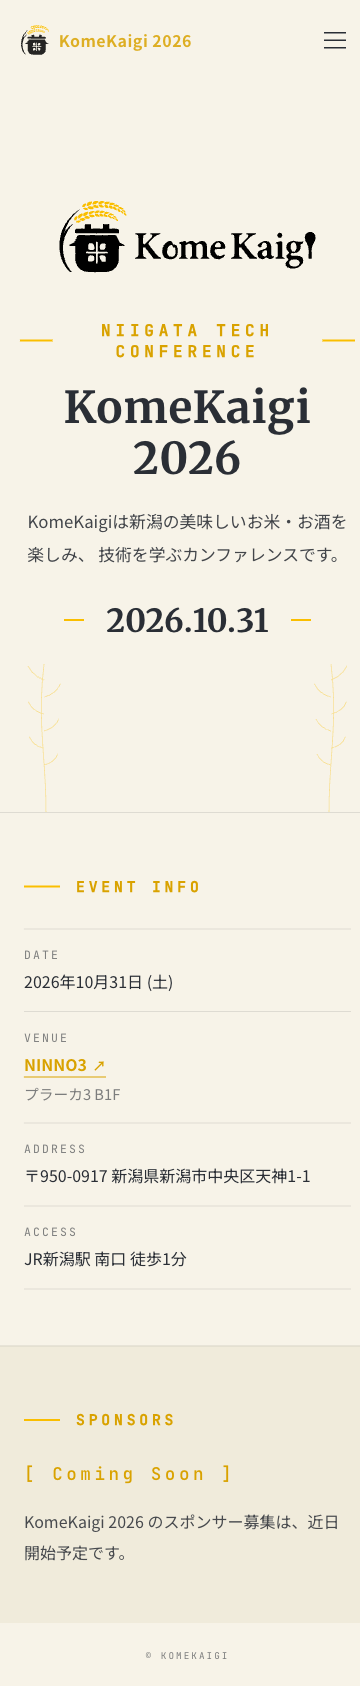
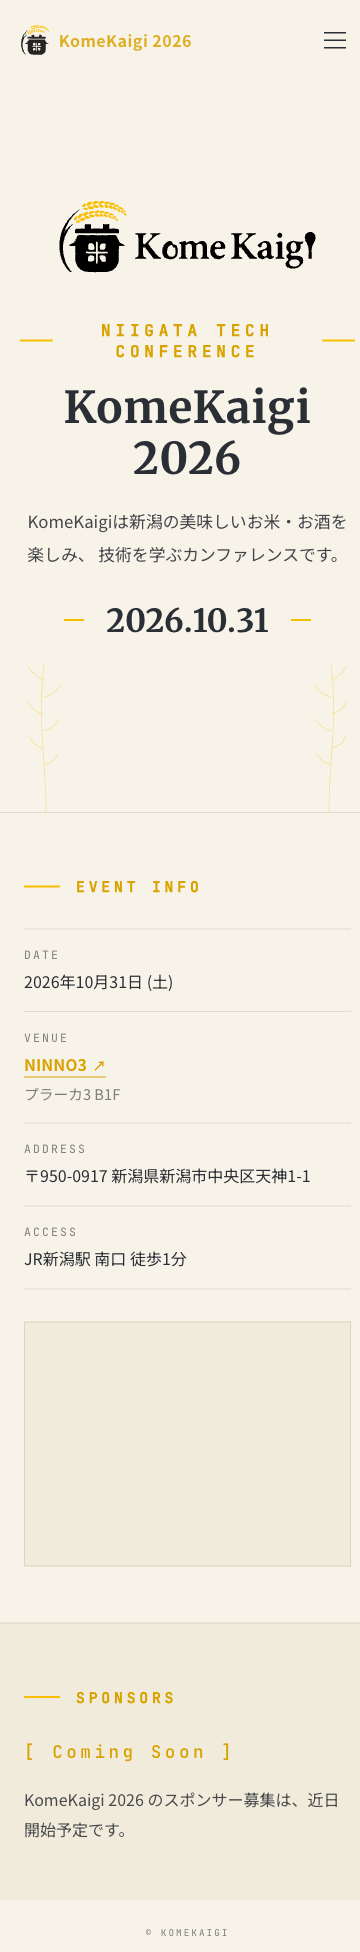
feat: Event Info セクションに Google Map 埋め込みを追加
ACCESS 行の下に NINNO3 (プラーカ3 B1F) の Google Map iframe を配置。
住所ベース (?q=...&z=17&output=embed) で API キー不要、loading="lazy" で
スクロール到達時まで読み込みを遅延。

- HTML: <iframe> を event-map ラッパー内に
  title 属性で地図の内容を明示、aria 的にも明確
- CSS: aspect-ratio 16:9 (デスクトップ) / 4:3 (≤560px) で
  両幅に最適化、罫線囲みでティザーのトーンに統合
- スクリーンショット更新

diff --git a/docs/index.html b/docs/index.html
@@ -193,6 +193,15 @@
                     <dd>JR新潟駅 南口 徒歩1分</dd>
                 </div>
             </dl>
+
+            <div class="event-map">
+                <iframe
+                    title="NINNO3 (プラーカ3 B1F) の地図"
+                    src="https://www.google.com/maps?q=%E3%80%92950-0917+%E6%96%B0%E6%BD%9F%E7%9C%8C%E6%96%B0%E6%BD%9F%E5%B8%82%E4%B8%AD%E5%A4%AE%E5%8C%BA%E5%A4%A9%E7%A5%9E1-1+%E3%83%97%E3%83%A9%E3%83%BC%E3%82%AB3&z=17&output=embed"
+                    loading="lazy"
+                    referrerpolicy="no-referrer-when-downgrade"
+                    allowfullscreen></iframe>
+            </div>
         </div>
     </section>
 

diff --git a/docs/css/teaser.css b/docs/css/teaser.css
@@ -445,6 +445,27 @@ a {
     }
 }
 
+.event-map {
+    margin-top: clamp(2rem, 4vw, 2.75rem);
+    aspect-ratio: 16 / 9;
+    border: 1px solid var(--color-line);
+    overflow: hidden;
+    background: var(--color-paper-soft);
+}
+
+.event-map iframe {
+    display: block;
+    width: 100%;
+    height: 100%;
+    border: 0;
+}
+
+@media (max-width: 560px) {
+    .event-map {
+        aspect-ratio: 4 / 3;
+    }
+}
+
 /* ==========================================
    Sponsors — Recruiting Soon
    ========================================== */
